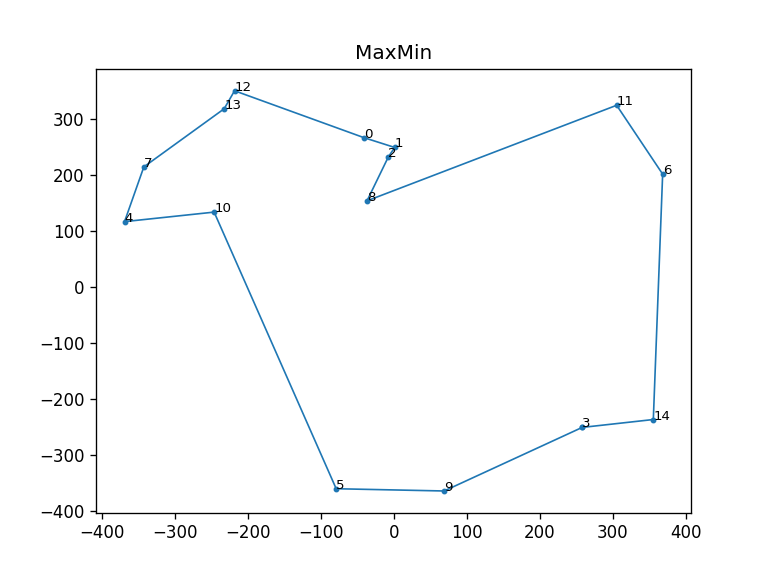
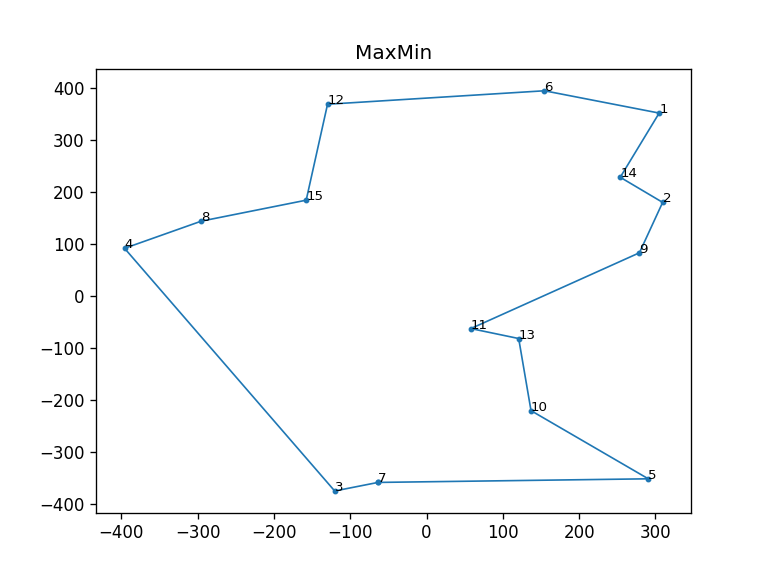
Bug fixes

diff --git a/aco_tsp.py b/aco_tsp.py
@@ -156,7 +156,7 @@ class SolveTSPUsingACO:
         plt.scatter(x, y, s=math.pi * (point_radius ** 2.0))
         plt.title(self.mode)
         for i in self.global_best_tour:
-            plt.annotate(i, self.nodes[i], size=annotation_size)
+            plt.annotate(i + 1, self.nodes[i], size=annotation_size)
         if save:
             if name is None:
                 name = '{0}_tour.png'.format(self.mode)
@@ -166,12 +166,12 @@ class SolveTSPUsingACO:
 
 
 if __name__ == '__main__':
-    acs = SolveTSPUsingACO(mode='ACS', steps=50, num_nodes=15, x_range=(-400, 400), y_range=(-400, 400))
+    acs = SolveTSPUsingACO(mode='ACS', colony_size=5, steps=50, num_nodes=15, x_range=(-400, 400), y_range=(-400, 400))
     acs.run()
     acs.plot()
-    elitist = SolveTSPUsingACO(mode='Elitist', steps=50, nodes=acs.nodes)
+    elitist = SolveTSPUsingACO(mode='Elitist', colony_size=5, steps=50, nodes=acs.nodes)
     elitist.run()
     elitist.plot()
-    max_min = SolveTSPUsingACO(mode='MaxMin', steps=50, nodes=acs.nodes)
+    max_min = SolveTSPUsingACO(mode='MaxMin', colony_size=5, steps=50, nodes=acs.nodes)
     max_min.run()
     max_min.plot()

diff --git a/README.md b/README.md
@@ -16,13 +16,13 @@ acs.plot()
 
 #### Example
 ```python
-acs = SolveTSPUsingACO(mode='ACS', steps=50, num_nodes=15, x_range=(-400, 400), y_range=(-400, 400))
+acs = SolveTSPUsingACO(mode='ACS', colony_size=5, steps=50, num_nodes=15, x_range=(-400, 400), y_range=(-400, 400))
 acs.run()
 acs.plot()
-elitist = SolveTSPUsingACO(mode='Elitist', steps=50, nodes=acs.nodes)
+elitist = SolveTSPUsingACO(mode='Elitist', colony_size=5, steps=50, nodes=acs.nodes)
 elitist.run()
 elitist.plot()
-max_min = SolveTSPUsingACO(mode='MaxMin', steps=50, nodes=acs.nodes)
+max_min = SolveTSPUsingACO(mode='MaxMin', colony_size=5, steps=50, nodes=acs.nodes)
 max_min.run()
 max_min.plot()
 ```
@@ -31,18 +31,18 @@ max_min.plot()
 ```
 Started: ACS
 Ended: ACS
-Tour: [6 -> 10 -> 4 -> 15 -> 7 -> 12 -> 2 -> 3 -> 1 -> 9 -> 14 -> 13 -> 8 -> 5 -> 11 -> 6]
-Distance: 2761.06
+Tour: [2 -> 14 -> 1 -> 6 -> 12 -> 15 -> 8 -> 4 -> 7 -> 3 -> 5 -> 10 -> 13 -> 11 -> 9 -> 2]
+Distance: 2893.66
 
 Started: Elitist
 Ended: Elitist
-Tour: [2 -> 3 -> 1 -> 9 -> 13 -> 14 -> 8 -> 5 -> 11 -> 6 -> 10 -> 4 -> 15 -> 7 -> 12 -> 2]
-Distance: 2740.04
+Tour: [4 -> 8 -> 15 -> 12 -> 6 -> 1 -> 14 -> 2 -> 9 -> 11 -> 13 -> 10 -> 5 -> 7 -> 3 -> 4]
+Distance: 2818.66
 
 Started: MaxMin
 Ended: MaxMin
-Tour: [4 -> 15 -> 7 -> 12 -> 9 -> 3 -> 2 -> 1 -> 13 -> 14 -> 8 -> 5 -> 11 -> 6 -> 10 -> 4]
-Distance: 2705.84
+Tour: [7 -> 3 -> 4 -> 8 -> 15 -> 12 -> 6 -> 1 -> 14 -> 2 -> 9 -> 11 -> 13 -> 10 -> 5 -> 7]
+Distance: 2818.66
 ```
 
 #### Plots
